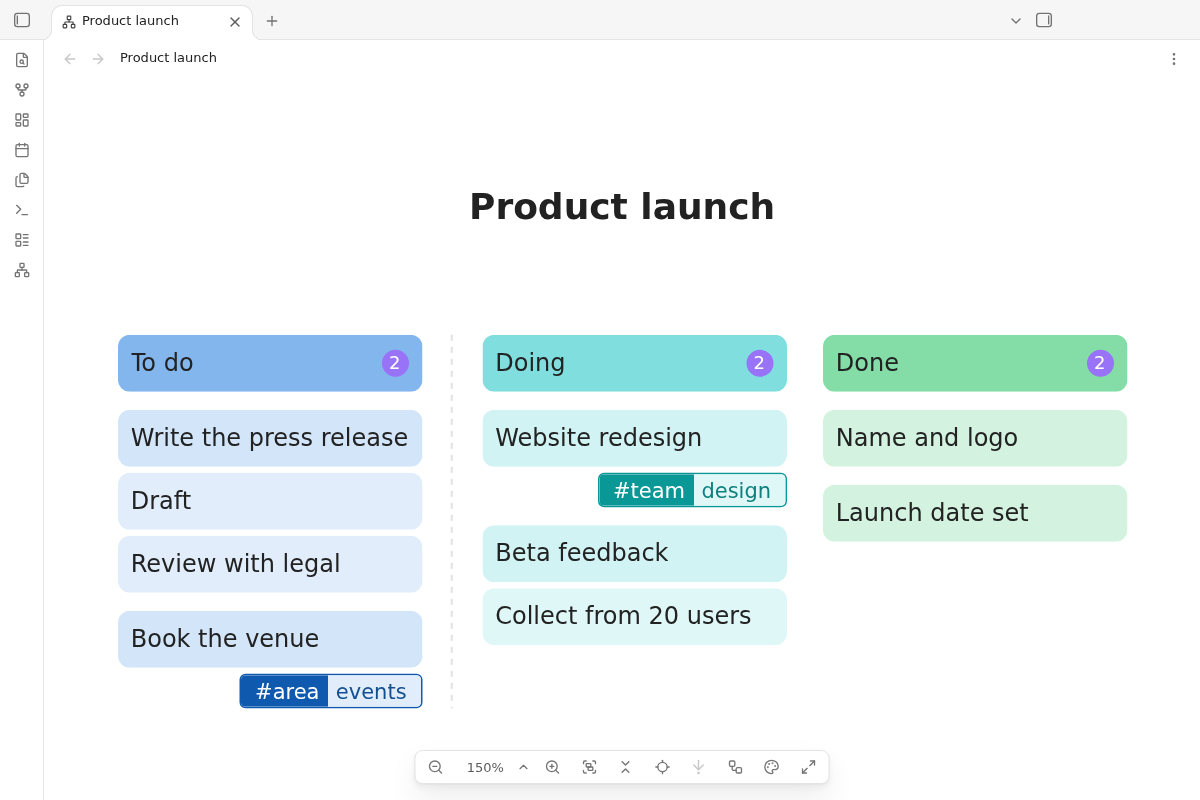
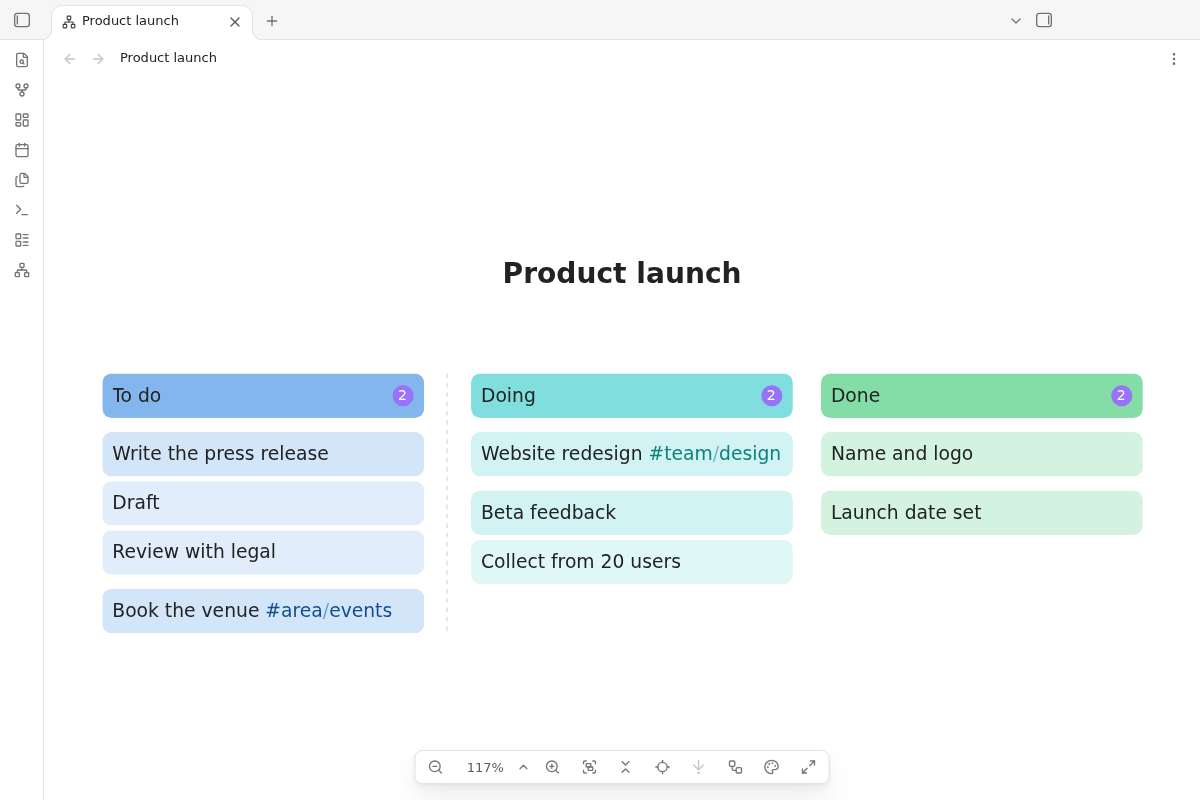
docs: regenerate docs images for the tags mode text (#111)
## Issue

Closes #109

## Summary

Regenerated the committed docs images on a fresh build of `main`
(003c6aa) after #107 made `text` the default tags mode. All four image
sets were re-rendered and every image was looked at; only visibly
changed images are committed, re-render noise (random temp vault name in
the explorer, sub-pixel text) was reverted.

- `docs/images/listing/3-kanban.png`: tags (`#team/design`,
`#area/events`) now as text in place instead of pills below the cards
- `docs/images/listing/4-nested-tags.png`: nested tags as written with
the dimmed `/`, in place, instead of two-part pills in a row below the
boxes
- `docs/images/ui-elements-kanban.png`: shows `node.tag` and
`node.tag-segment` on a text-mode tag instead of `node.tags`/`node.tag`
on a pill
- `docs/images/manual/settings.png`: setting "Tags" with "Text" (was
"Tag position" / "Outside"), version 1.8.0; the window is now 1320 px
high (`e2e/manualImages.e2e.ts`) so the whole About group ("Report an
issue") is visible again, it was cut off before
- `docs/ui-elements.md`: caption of the kanban image no longer says "tag
row below a card"

Regenerated, looked identical, reverted: `docs/images/hero.png`,
`docs/images/listing/1-note-and-map.png`, `docs/images/ui-elements.png`,
all other `docs/images/manual/*.png`. The other images (hero, manual)
contain no tags.

`README.md`, `docs/user-manual.md` and `docs/developer.md` already
describe `text` as the default and use the name "Tags" (done in #107);
[…]

Changed region(s): [[0.0617, 0.4062, 0.9558, 0.9062], [0.4008, 0.3125, 0.6167, 0.375], [0.37, 0.25, 0.6475, 0.2812]]

diff --git a/e2e/manualImages.e2e.ts b/e2e/manualImages.e2e.ts
@@ -314,7 +314,7 @@ describe('user manual images', function () {
     const settings = (await browser.getWindowHandles()).find((h) => h !== main);
     if (!settings) throw new Error('no settings window');
     await browser.switchToWindow(settings);
-    await setWindowSize(860, 1210);
+    await setWindowSize(860, 1320);
     // the window title holds the random name of the temporary vault
     await browser.execute(() => {
       const style = document.head.createEl('style');

diff --git a/docs/ui-elements.md b/docs/ui-elements.md
@@ -20,7 +20,7 @@ Made with "Show element IDs (dev)" by `npm run ui:images` (writes `docs/images/u
 
 ![Full screen with a collapsed branch, a drilled-in center, a highlighted link and the control bar, every element labelled](images/ui-elements-full-screen.png)
 
-![A small board in the kanban layout: the headline, two columns with their card counts, cards, a nested tag in its tag row below a card and a divider, every element labelled](images/ui-elements-kanban.png)
+![A small board in the kanban layout: the headline, two columns with their card counts, cards, a nested tag as text in a card (tags mode text, one segment per level) and a divider, every element labelled](images/ui-elements-kanban.png)
 
 ## Contents
 
